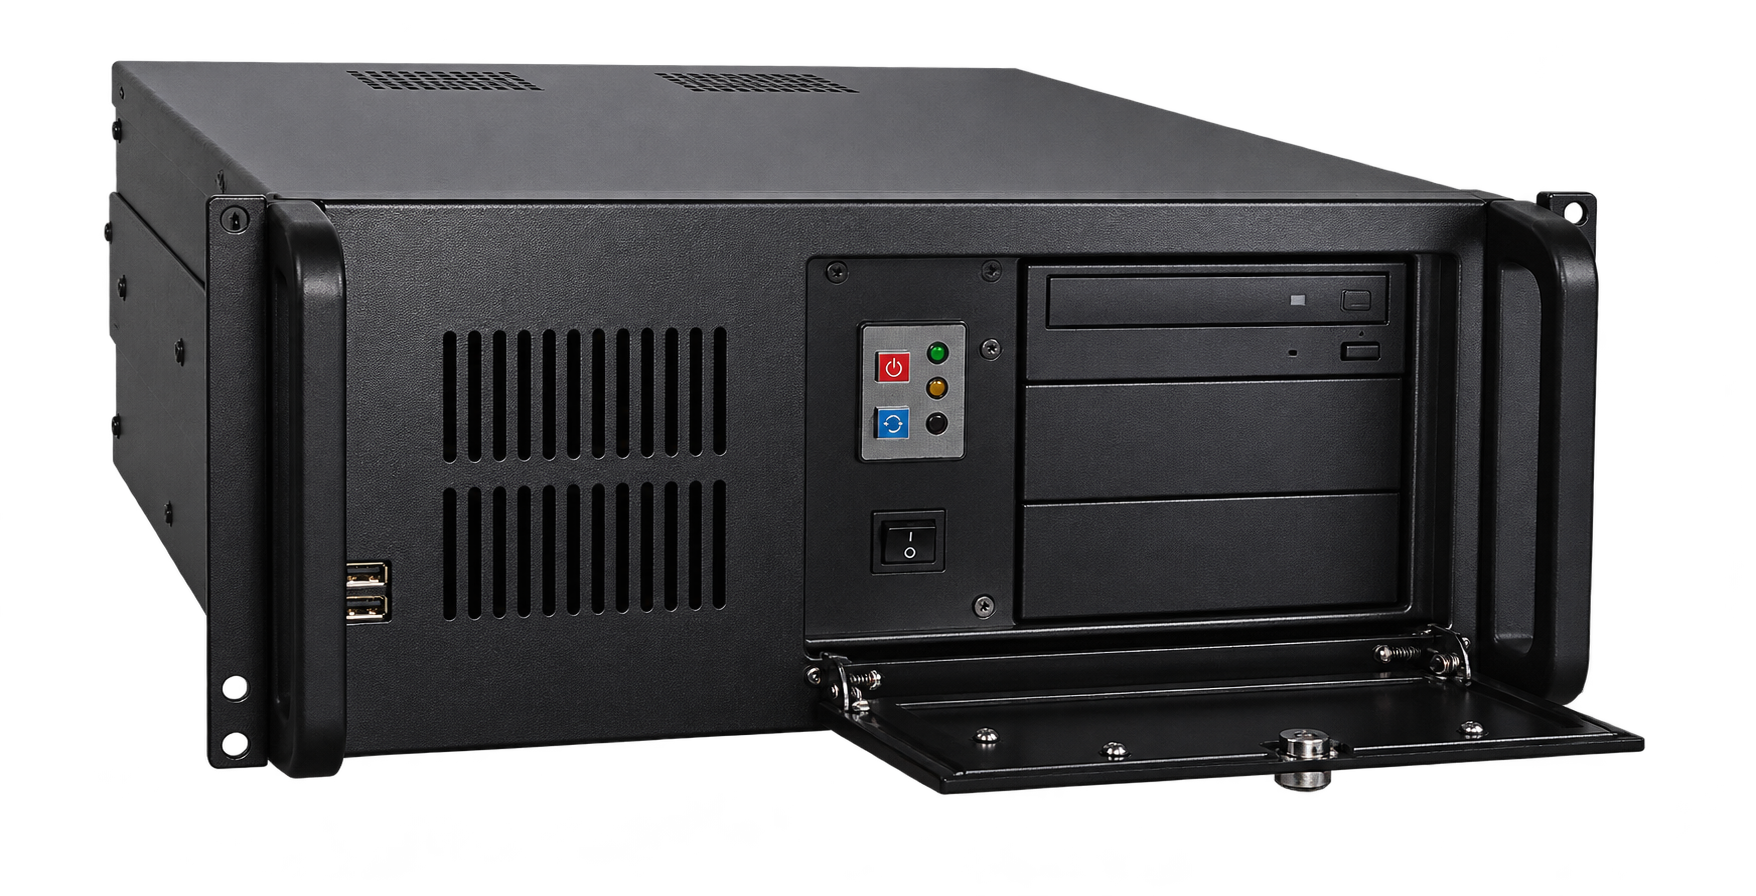
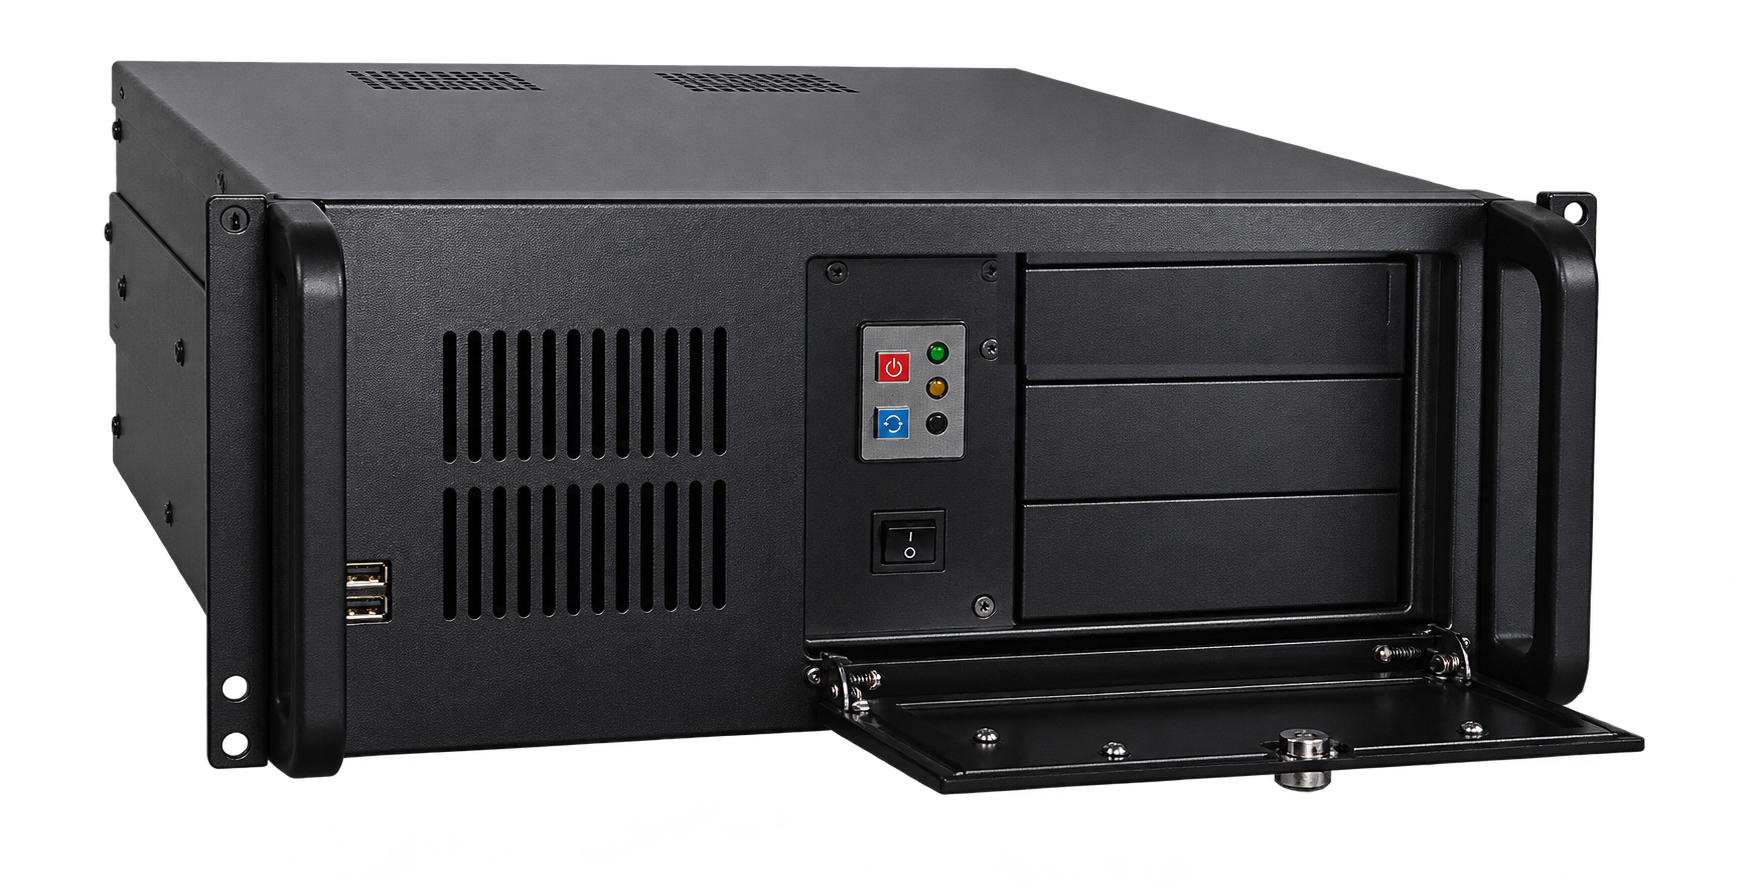
Контакты и фото Phantom Ultra / Phantom Pro 6
* Update contacts wording and replace Phantom Ultra product photo

* Temporary export of Pro Level 6 image for precise retouching

* Apply precise retouch to existing Phantom Pro 6 site image

* Replace Phantom Pro Level 6 optical drive with matching blank panel

---------

Changed region(s): [[0.5843, 0.2812, 0.7995, 0.4062]]

diff --git a/phantom-catalog.html b/phantom-catalog.html
@@ -38,7 +38,7 @@ html[data-theme=dark]{--ink:#f4f7fb;--muted:#b5c0cf;--canvas:#101928;--paper:#18
 <article class="product-card"><p class="tag">MidiTower</p><a class="product-image" href="phantom-pc-2.html" aria-label="Открыть страницу Phantom PC 2"><img loading="lazy" decoding="async" src="assets/products/phantom-pc-2-cutout.png" alt="Регистратор Phantom PC 2"></a><h3>Phantom PC 2</h3><p>Компьютерная платформа для систем небольшой и средней ёмкости. До 3 интерфейсных плат.</p><a href="phantom-pc-2.html" class="detail" aria-label="Подробнее: Phantom PC 2">Подробнее о модели <span aria-hidden="true">→</span></a></article>
 <article class="product-card"><p class="tag">2U / 4U</p><a class="product-image" href="phantom-pro-level-5.html" aria-label="Открыть страницу Phantom Pro уровня 5"><img loading="lazy" decoding="async" src="assets/products/phantom-pro-level-5-cutout.png" alt="Регистратор Phantom Pro уровня 5"></a><h3>Phantom Pro уровня 5</h3><p>Индустриальная серверная платформа с установкой до 4 интерфейсных плат Phantom.</p><a href="phantom-pro-level-5.html" class="detail" aria-label="Подробнее: Phantom Pro уровня 5">Подробнее о модели <span aria-hidden="true">→</span></a></article>
 <article class="product-card"><p class="tag">4U</p><a class="product-image" href="phantom-pro-level-6.html" aria-label="Открыть страницу Phantom Pro уровня 6"><img loading="lazy" decoding="async" src="assets/products/phantom-pro-level-6-cutout.png" alt="Регистратор Phantom Pro уровня 6"></a><h3>Phantom Pro уровня 6</h3><p>Индустриальный сервер повышенной ёмкости с установкой до 11 интерфейсных плат Phantom.</p><a href="phantom-pro-level-6.html" class="detail" aria-label="Подробнее: Phantom Pro уровня 6">Подробнее о модели <span aria-hidden="true">→</span></a></article>
-<article class="product-card"><p class="tag">2U / 3U</p><a class="product-image" href="phantom-ultra.html" aria-label="Открыть страницу Фантом Ультра"><img loading="lazy" decoding="async" src="assets/products/phantom-ultra-neutral-racks.png" alt="Регистраторы «Фантом Ультра»"></a><h3>«Фантом Ультра»</h3><p>Автономная система со встроенными клавиатурой и дисплеем и сетевым доступом. Варианты для телефонных и диспетчерских задач.</p><a href="phantom-ultra.html" class="detail" aria-label="Подробнее: «Фантом Ультра»">Подробнее о модели <span aria-hidden="true">→</span></a></article></div></div></section>
+<article class="product-card"><p class="tag">2U / 3U</p><a class="product-image" href="phantom-ultra.html" aria-label="Открыть страницу Фантом Ультра"><img loading="lazy" decoding="async" src="assets/products/phantom-ultra-20261117.webp" alt="Регистраторы «Фантом Ультра»"></a><h3>«Фантом Ультра»</h3><p>Автономная система со встроенными клавиатурой и дисплеем и сетевым доступом. Варианты для телефонных и диспетчерских задач.</p><a href="phantom-ultra.html" class="detail" aria-label="Подробнее: «Фантом Ультра»">Подробнее о модели <span aria-hidden="true">→</span></a></article></div></div></section>
 <section class="section white" id="comparison"><div class="wrap"><div class="section-head"><p class="eyebrow">Характеристики</p><h2>Сравнение готовых регистраторов</h2><p class="intro">Предельные параметры отдельных исполнений. Таблица помогает сравнить модели перед&nbsp;составлением проектной спецификации.</p></div><div class="table-wrap" role="region" tabindex="0" aria-label="Прокручиваемая сравнительная таблица"><table class="compare"><thead><tr><th scope="col">Модель</th><th scope="col">Формат</th><th scope="col">Аналоговые</th><th scope="col">Цифровые</th><th scope="col">E1</th><th scope="col">IP</th><th scope="col">Платы</th></tr></thead><tbody><tr><th scope="row">Phantom MICRO</th><td>1U</td><td>до 8</td><td>—</td><td>—</td><td>до 20</td><td>1</td></tr>
 <tr><th scope="row">Phantom PC 2</th><td>MidiTower</td><td>до 24</td><td>до 36</td><td>до 6</td><td>до 30</td><td>до 3</td></tr>
 <tr><th scope="row">Phantom Pro уровня 5</th><td>2U / 4U</td><td>до 32</td><td>до 48</td><td>до 6</td><td>до 30</td><td>до 4</td></tr>

diff --git a/phantom-home.html b/phantom-home.html
@@ -406,7 +406,7 @@
             <div class="product-copy"><h3>Phantom<br>PC&nbsp;2</h3><p>Компактная компьютерная платформа MidiTower с&nbsp;установкой до&nbsp;3&nbsp;интерфейсных плат</p><span class="product-link">Характеристики ↗</span></div>
           </a>
           <a class="product" href="phantom-ultra.html">
-            <span class="product-image"><img src="assets/products/phantom-ultra-neutral-racks.png" alt="Автономный регистратор «Фантом Ультра»" loading="lazy"></span>
+            <span class="product-image"><img src="assets/products/phantom-ultra-20261117.webp" alt="Автономный регистратор «Фантом Ультра»" loading="lazy"></span>
             <div class="product-copy"><h3>«Фантом<br>Ультра»</h3><p>Автономный регистратор со&nbsp;встроенными экраном и&nbsp;клавиатурой</p><span class="product-link">Характеристики ↗</span></div>
           </a>
         </div>

diff --git a/contacts.html b/contacts.html
@@ -119,7 +119,7 @@ html[data-theme=dark] .map-frame{background:#1b3449 url('assets/map2.0b139232.pn
       </article>
       <article class="contact-card">
         <h3>Техническая поддержка</h3>
-        <p>Помощь в&nbsp;эксплуатации, установке и&nbsp;настройке системы «Фантом», а&nbsp;также консультации по&nbsp;документации.</p>
+        <p>Помощь в&nbsp;эксплуатации, установке и&nbsp;настройке системы «Фантом», консультации специалистов.</p>
         <a class="contact-link" href="mailto:support@mdis.ru">support@mdis.ru</a>
         <span class="contact-helper"><a href="support.html">Документация и&nbsp;база вопросов</a></span>
       </article>

diff --git a/phantom-ultra.html b/phantom-ultra.html
@@ -81,7 +81,7 @@
 </ul>
 </div>
 <div class="device product-visual product-visual--photo" aria-hidden="true">
-<img class="product-visual-photo" src="assets/products/phantom-ultra-neutral-racks.png" alt="">
+<img class="product-visual-photo" src="assets/products/phantom-ultra-20261117.webp" alt="">
 </div>
 </div>
 </section>
